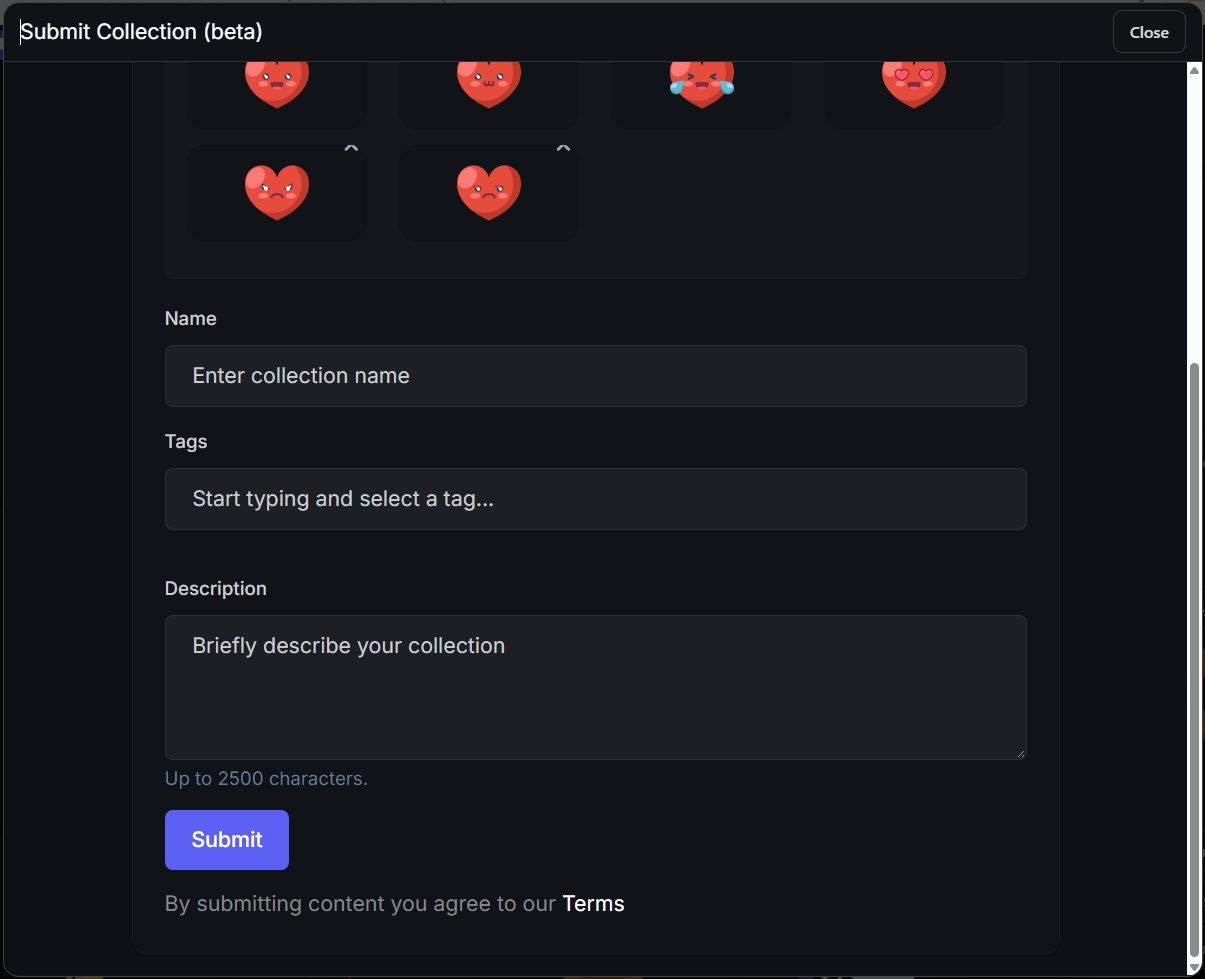
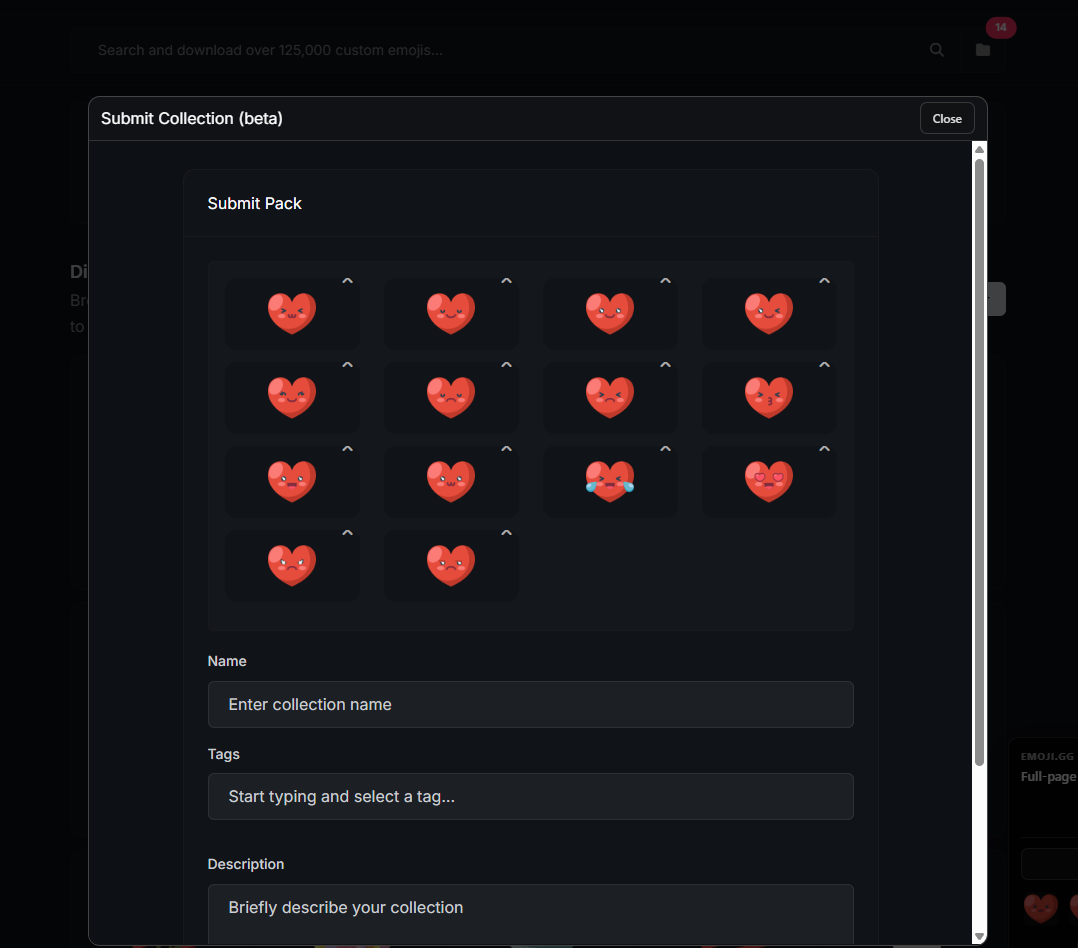
Release 1.1.1 with non-selectable widget chrome and updated screenshots

diff --git a/emoji-gg-universal-full-page-loader.user.js b/emoji-gg-universal-full-page-loader.user.js
@@ -1,7 +1,7 @@
 // ==UserScript==
 // @name         Emoji.gg Full Page Loader & Collection Manager
 // @namespace    emoji.gg.full-page-loader
-// @version      1.1.0
+// @version      1.1.1
 // @description  Fast full-page loading for Emoji.gg profiles and listings, with previews, cross-tab collection management, and efficient pack submission.
 // @author       Chase (itschase)
 // @license      MIT
@@ -125,6 +125,8 @@
   const panel = document.createElement('div');
   panel.setAttribute('role', 'region');
   panel.setAttribute('aria-label', 'Emoji.gg full-page loader');
+  panel.style.userSelect = 'none';
+  panel.style.webkitUserSelect = 'none';
   Object.assign(panel.style, {
     position: 'fixed', right: '12px', bottom: '12px', zIndex: '2147483647',
     width: 'min(320px, calc(100vw - 24px))', boxSizing: 'border-box', padding: '12px',
@@ -379,6 +381,8 @@
       dialogStyles.textContent = 'dialog[aria-label="Submit collection"]::backdrop{background:rgba(0,0,0,.7)}';
       const bar = document.createElement('div');
       bar.style.cssText = 'height:44px;display:flex;align-items:center;justify-content:space-between;padding:0 12px;border-bottom:1px solid #333';
+      bar.style.userSelect = 'none';
+      bar.style.webkitUserSelect = 'none';
       const label = document.createElement('span');
       label.textContent = 'Submit Collection (beta)';
       const close = makeButton('Close');

diff --git a/README.md b/README.md
@@ -4,7 +4,7 @@
 
 This userscript adds fast, optional full-page loading to Emoji.gg profiles, emoji and sticker listings, searches, and categories. A compact collection manager lets you preview selections, remove individual items, open pack submission in another tab, and start the next collection without refreshing your browsing page.
 
-**Release: 1.1.0 · License: MIT · Author: Chase (itschase)**
+**Release: 1.1.1 · License: MIT · Author: Chase (itschase)**
 
 [Install from Greasy Fork](https://greasyfork.org/en/scripts/604991-emoji-gg-full-page-loader-collection-manager) · [Source on GitHub](https://github.com/itschase/emoji-gg-full-page-loader-collection-manager) · [Report an issue](https://github.com/itschase/emoji-gg-full-page-loader-collection-manager/issues)
 
@@ -24,6 +24,18 @@ The compact widget keeps loading, collection previews, ZIP export, and both subm
 
 <details>
 <summary>More screenshots and feature examples</summary>
+
+### Loading in progress
+
+Follow the loaded asset count as the script retrieves more results. Use **Stop full load** to pause.
+
+![Full-page loading with 100 assets loaded](https://raw.githubusercontent.com/itschase/emoji-gg-full-page-loader-collection-manager/main/assets/loading-active-1.1.png)
+
+### Loading paused
+
+Keep the assets already loaded and resume using **Load full page** when ready.
+
+![Loading paused with 125 assets retained](https://raw.githubusercontent.com/itschase/emoji-gg-full-page-loader-collection-manager/main/assets/loading-paused-1.1.png)
 
 ### Expanded collection
 
